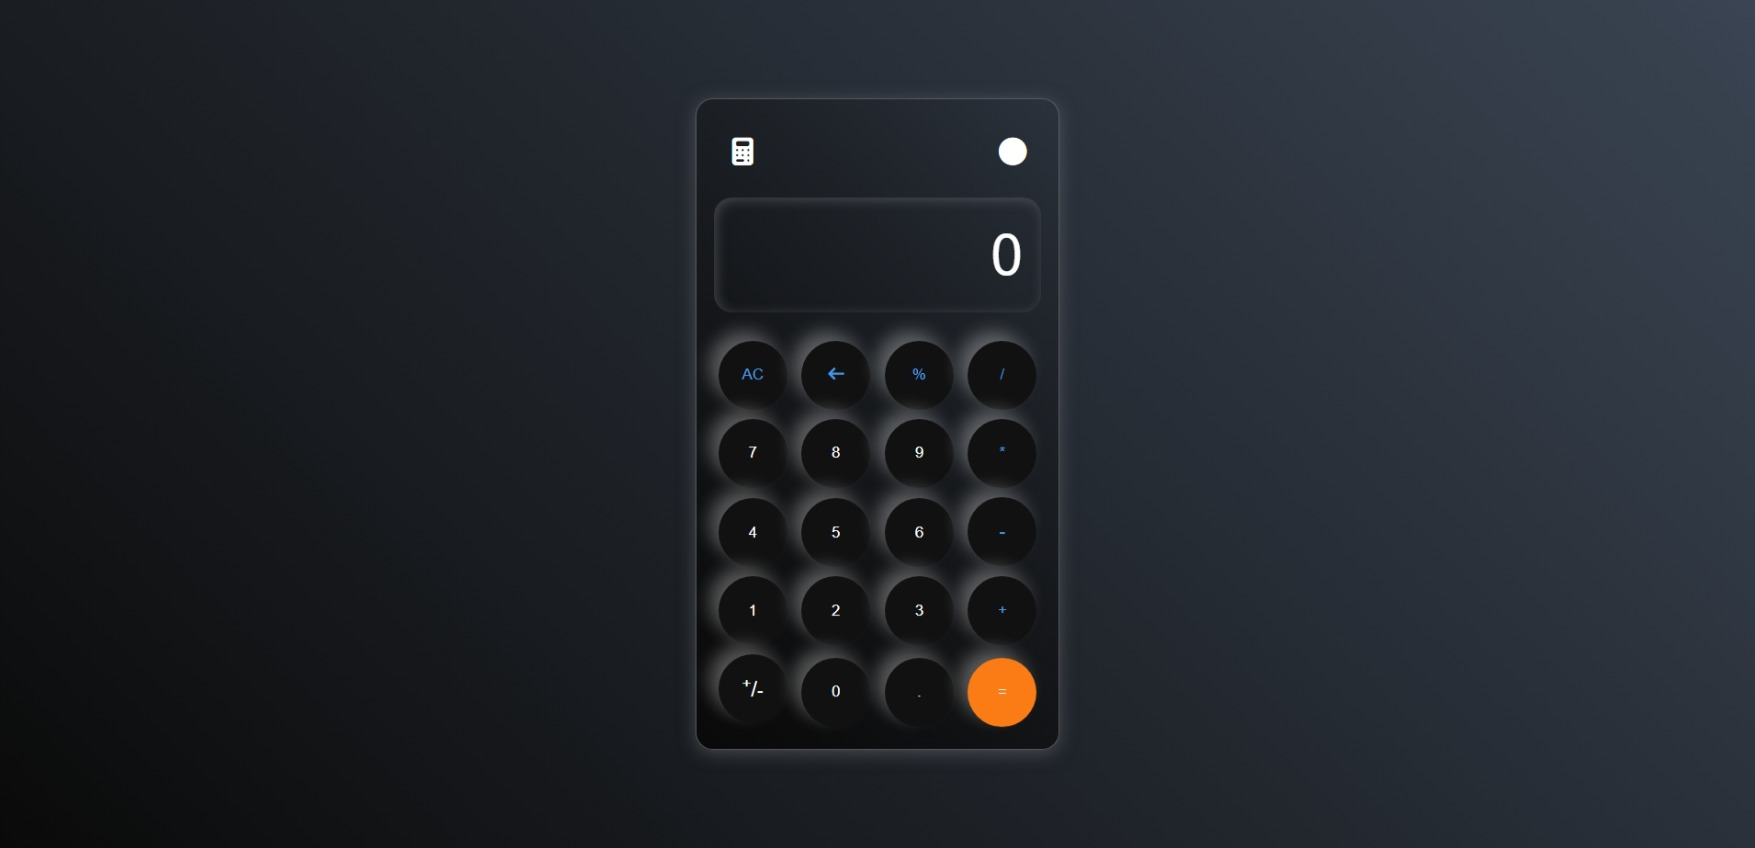
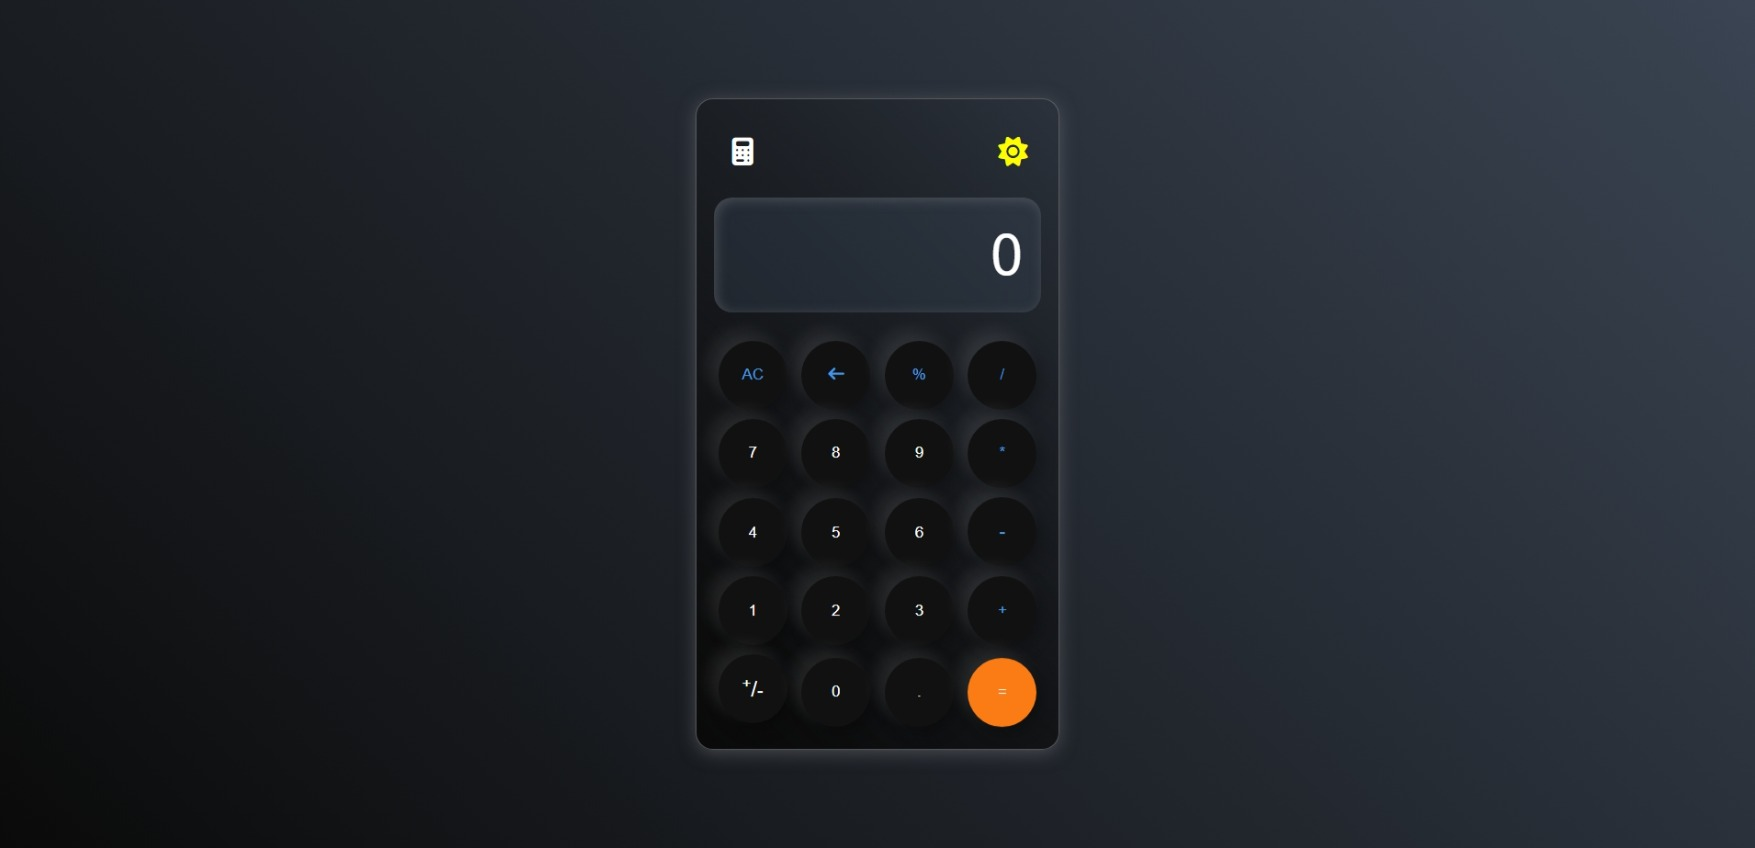
Transition effects added

Changed region(s): [[0.4, 0.3986, 0.5846, 0.8278], [0.5538, 0.1533, 0.5846, 0.2146]]

diff --git a/style.css b/style.css
@@ -22,6 +22,7 @@ body {
     border-radius: 15px;
     box-shadow: 0px 3px 15px rgba(113, 115, 119, 0.5);
     background: linear-gradient(45deg, #0a0a0a, #3a445209);
+    transition: all 1s ease-in-out;
 }
 
 .calculator.light {
@@ -39,6 +40,16 @@ body {
 
 #mode {
     cursor: pointer;
+    color: yellow;
+    transition: transform 0.5s ease-in-out;
+}
+
+#mode:hover {
+  transform: rotate(180deg);
+}
+
+.icons.light #mode {
+    color: #111111;
 }
 
 .icons.light {
@@ -50,7 +61,7 @@ body {
     height: 100px;
     border: none;
     border-radius: 1rem;
-    background: transparent;
+    background: #3d4b6050;
     color: #ffffff;
     text-align: right;
     margin-top: 1.2rem;
@@ -58,14 +69,13 @@ body {
     padding-right: 1rem;
     font-size: 3.1rem;
     box-shadow: inset 2px 2px 10px rgba(113, 115, 119, 0.5);
+    transition: all 1s ease-in-out;
 }
 
 .inputBox.light {
     box-shadow: inset 3px 3px 15px rgba(113, 115, 119, 0.899);
-}
-
-.inputBox.light {
     color: #111111;
+    background: transparent;
 }
 
 .inputBox::placeholder{
@@ -84,7 +94,8 @@ body {
     color: #ffffff;
     background-color: #111111;
     border-radius: 50%;
-    box-shadow: -8px -8px 15px rgba(255, 255, 255, 0.3);
+    box-shadow: -8px -8px 15px rgba(255, 255, 255, 0.1),
+                4px 4px 15px rgba(0, 0, 0, 0.3);
 }
 
 .button.light-shadow   {
@@ -93,10 +104,10 @@ body {
 
 .button:hover {
     cursor: pointer;
+    transform: scale(1.05);
 }
 
 .button:active {
-    cursor: pointer;
     background: rgba(100, 108, 117, 0.901);
 }
 
@@ -115,3 +126,4 @@ body {
 .operator.light {
    color: #6dee0a;
 }
+

diff --git a/index.html b/index.html
@@ -13,7 +13,7 @@
       <div class="calculator">
         <div class="icons">
           <i class="fa-solid fa-xl fa-calculator"></i>
-          <i class="fa-solid fa-xl fa-circle" id="mode"></i>
+          <i class="fa-solid fa-xl fa-sun" id="mode"></i>
         </div>
         <input type="text" class="inputBox" placeholder="0" />
         <div>

diff --git a/script.js b/script.js
@@ -59,6 +59,7 @@ mode.addEventListener("click", () => {
     calc.classList.toggle('light');
     icons.classList.toggle('light');
     input.classList.toggle('light');
+    mode.classList.toggle('fa-moon');
     btns.forEach((btn) => {
         btn.classList.toggle('light-shadow');
     })
